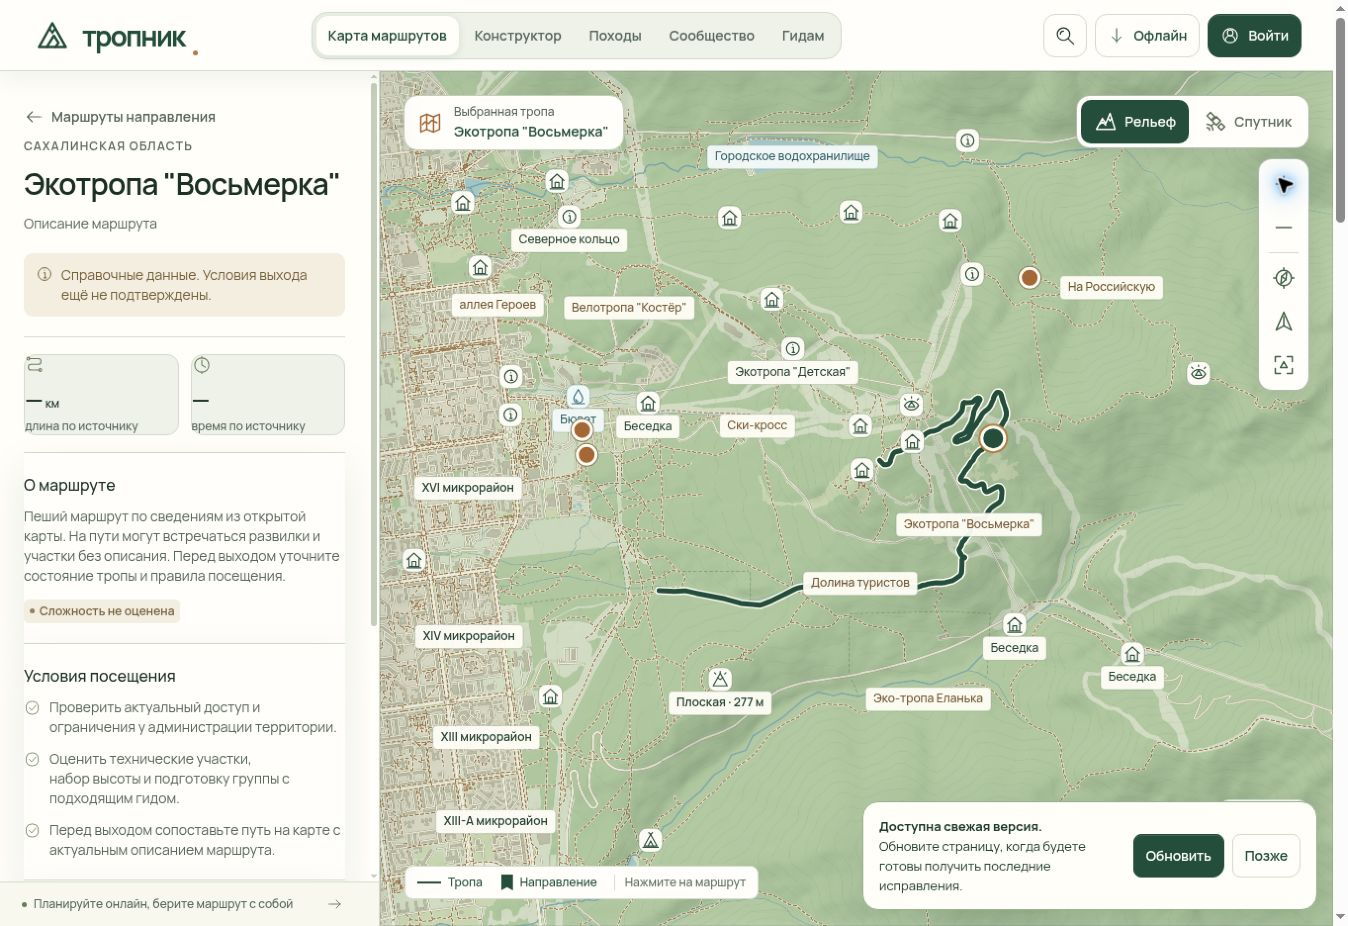
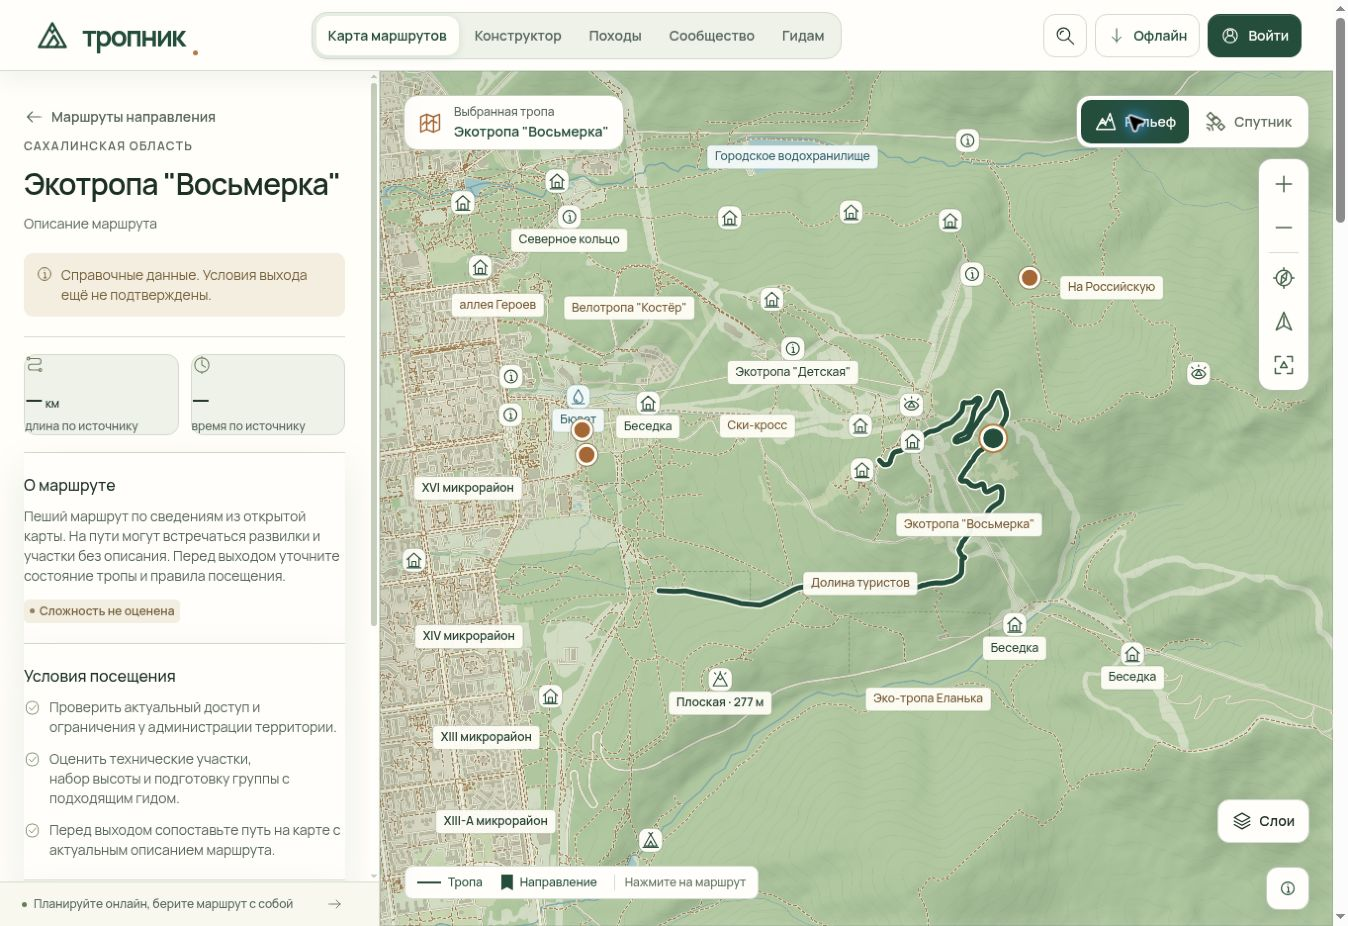
Record published relief and satellite verification

Changed region(s): [[0.6231, 0.8467, 0.997, 0.9978], [0.8101, 0.121, 0.8724, 0.1512], [0.9347, 0.1814, 0.9659, 0.2117]]

diff --git a/docs/release-0.4.27.md b/docs/release-0.4.27.md
@@ -1,8 +1,7 @@
 # Тропник 0.4.27: «Рельеф» и «Спутник»
 
-12 ноября 2026 года. Изменения веб-версии по уточнённому запросу пользователя.
-Ниже зафиксированы локальные проверки кандидата; подтверждением публичного
-выпуска служит отдельный успешный процесс GitHub Pages и проверка его адреса.
+12 ноября 2026 года. Веб-версия опубликована на рабочем сайте и GitHub Pages.
+Публичная сборка и оба режима карты проверены после публикации.
 
 ## Решение по карте
 
@@ -84,9 +83,31 @@ SSR/bundle fixture для управления, атрибуции и подло
 направления и линии маршрута. В обоих режимах отсутствует `.terrain-scene`.
 [Рельеф](verification/map-relief-0.4.27.jpg),
 [спутник](verification/map-satellite-0.4.27.jpg) и
-[состояние двух режимов](verification/map-modes-0.4.27.json) относятся к
-управляемому предпросмотру этой версии.
+[состояние двух режимов](verification/map-modes-0.4.27.json) получены на
+опубликованной версии GitHub Pages после успешного deploy. При переключении
+центр, масштаб и выбранная линия сохранились; оба завершённых кадра просмотрены.
 
-Обязательные проверки настоящего браузера, производительности и опубликованного
-адреса выполняются отдельно в процессе GitHub Pages. Результаты предыдущего
-кандидата 0.4.26 не считаются приёмкой этого изменения.
+## Подтверждённая публикация
+
+- [Процесс GitHub Pages 43137934609](https://github.com/orewn/tropnik/actions/runs/43137934609)
+  завершился успешно: build, deploy и проверка публичного адреса.
+- Публичный build ID: `031a03383829f6be`; исходный коммит приложения:
+  `6cc1719522ac0fc3a1866a9ba29dafd7afea10fb`.
+- Штатная и независимая проверки `verify-deployed` подтвердили опубликованные
+  данные. Независимая проверка: 24 успешных HTTP-проверки.
+- Публичный браузерный отчёт прошёл `assertBrowserReport`: четыре мобильных
+  размера экрана и desktop, основная схема 5, схема масштабов 9.
+- Для `android-portrait` и `desktop-webgl`: `performancePassed: true`,
+  `performanceIssues: []`. В проверке масштабов CLS составляет 0,01469 / 0,00878,
+  максимальная длительная задача — 51 / 61 мс. В основных взаимодействиях
+  CLS равен нулю, максимальная длительная задача — 71 / 63 мс.
+- Это измерения браузерных профилей CI. Замеры на конкретном телефоне пользователя
+  в этот результат не входят.
+- Рабочий Site также успешно опубликован из коммита
+  `2f730645e7b6557f9cd56d42d2b43432da6f23af`; существующий доступ сохранён.
+
+Адреса: [рабочий сайт](https://tropa-rf-atlas-2026.wintrybluebell1.chatgpt.site/)
+и [публичная карта](https://orewn.github.io/tropnik/). Проверяемые данные:
+[build-info.json](https://orewn.github.io/tropnik/build-info.json) и
+[browser-verification.json](https://orewn.github.io/tropnik/browser-verification.json).
+Результаты предыдущего кандидата 0.4.26 не использованы как приёмка этого выпуска.
